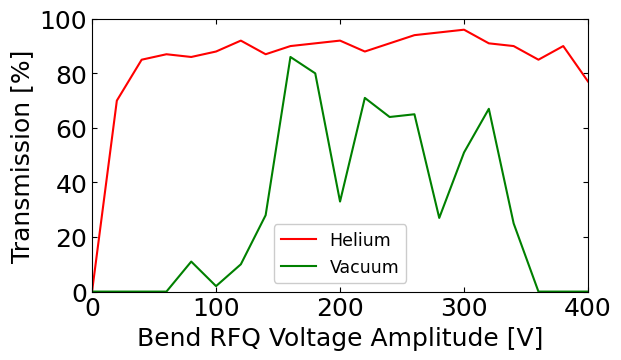
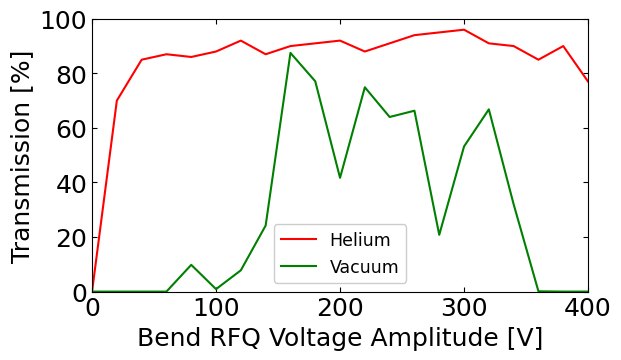
added testing components - changed things around

diff --git a/projectionplotter.py b/projectionplotter.py
@@ -15,12 +15,13 @@ def avg(listin):
 def column(matrix, i):
     return [row[i] for row in matrix]
 
-fileHe = np.loadtxt("Optimal/NewGeometry/widerange_notopt.txt" , dtype='i')
-fileVac = np.loadtxt("Optimal/NewGeometry/newgeo_vacuum1k.txt" , dtype='i')
+fileHe = np.loadtxt("Optimal/NewGeometry/widerange_notopt.txt" , dtype='f')
+fileVac = np.loadtxt("Optimal/NewGeometry/newgeo_vacuum1k.txt" , dtype='f')
 # fileAr = np.loadtxt("Optimal/NewGeometry/widerange_notopt.txt" , dtype='i')
 
 nrows = 21
 ncols = 15
+col30 = 7
 
 He = np.zeros((nrows,ncols))
 Vac = np.zeros((nrows,ncols))
@@ -39,23 +40,31 @@ for i in range(1,nrows+1):
 #Plot only column for which SRFQ=30 V
 plotHe = []
 plotVac = []
+plotOther = []
 #plotAr = []
 
-for i in 
+for i in range(0,nrows):
+    plotHe.append(He[i][col30-1])
+    plotVac.append(Vac[i][col30-1])
+    # plotOther.append(Vac[i][-1])
+    #plotAr.append(Ar[i][col30-1])
+
+print(plotVac)
 
 plt.rcParams['font.size'] = 18
 
-fig2, axproj = plt.subplots()
-axproj.plot(brfq, He, color='red', label = "Helium")
-axproj.plot(brfq, Vac, color='green', label = "Vacuum")
-axproj.plot(brfq, Ar, color='Blue', label = "Argon")
+fig, axproj = plt.subplots()
+axproj.plot(brfq, plotHe, color='Red', label = "Helium")
+axproj.plot(brfq, plotVac, color='Green', label = "Vacuum @ 30 V SRFQ")
+# axproj.plot(brfq, plotOther, color='Orange', label = "Vacuum @ 70 V SRFQ")
+# axproj.plot(brfq, plotAr, color='Blue', label = "Argon")
 axproj.set_xlim(0,400)
 axproj.set_ylim(0,100)
 axproj.set_aspect(2.2)
 axproj.tick_params(top=True, right=True,direction='in')
 axproj.set_xlabel("Bend RFQ Voltage Amplitude [V]")
 axproj.set_ylabel("Transmission [%]")
-axproj.legend(fontsize='x-small', loc=8, frameon=True,fancybox=True,framealpha=1)
+fig.legend(fontsize='x-small', loc=1, frameon=True,fancybox=True,framealpha=1)
 # axproj.set_title("Transmission at 30 V Straight RFQ Voltage")
 plt.savefig("projection.pdf", bbox_inches = 'tight', pad_inches = 0.1, transparent=True)
 plt.savefig("projection.png", bbox_inches = 'tight', pad_inches = 0.1)

diff --git a/transmissionplotter.py b/transmissionplotter.py
@@ -15,8 +15,9 @@ def avg(listin):
 def column(matrix, i):
     return [row[i] for row in matrix]
 
-filein = np.loadtxt("Optimal/NewGeometry/newgeo_vacuum1k.txt" , dtype='i')
+filein = np.loadtxt("Optimal/NewGeometry/widerange_notopt.txt" , dtype='f')
 
+thecolor = 'Red'
 nrows = 21
 ncols = 15
 
@@ -44,7 +45,6 @@ colmax = colmax[::-1]
 #     colavg.append(avg(column(z,i)))
 
 plt.rcParams['font.size'] = 18
-thecolor = 'Green'
 
 fig = plt.figure(figsize=(20, 15))
 gs = gridspec.GridSpec(10, 12)
@@ -74,5 +74,5 @@ clb.set_label("Transmission [%]", loc = 'center')
 clb.ax.xaxis.set_ticks_position('top')
 clb.ax.xaxis.set_label_position('top')
 
-plt.savefig("Optimal/NewGeometry/newgeo_vacuum1k.pdf", bbox_inches = 'tight', pad_inches = 0.1, transparent=True)
-plt.savefig("Optimal/NewGeometry/newgeo_vacuum1k.png", bbox_inches = 'tight', pad_inches = 0.1)
+plt.savefig("Optimal/NewGeometry/test.pdf", bbox_inches = 'tight', pad_inches = 0.1, transparent=True)
+plt.savefig("Optimal/NewGeometry/test.png", bbox_inches = 'tight', pad_inches = 0.1)
